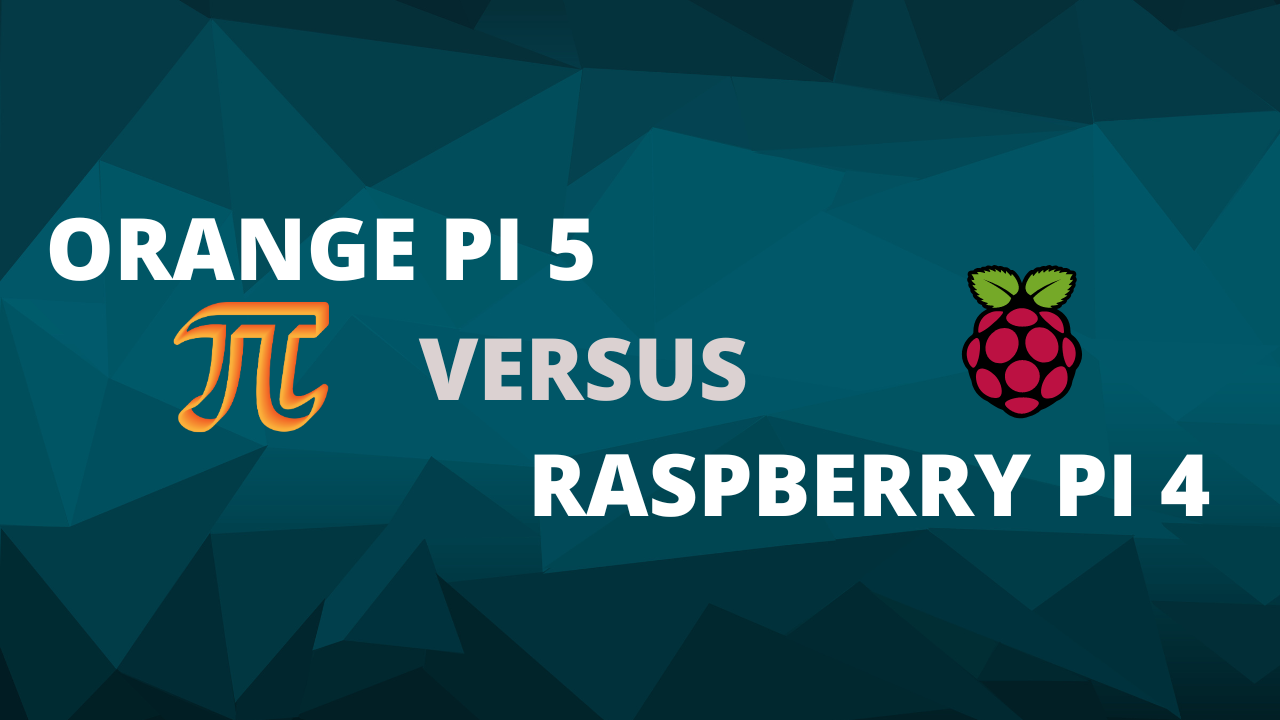
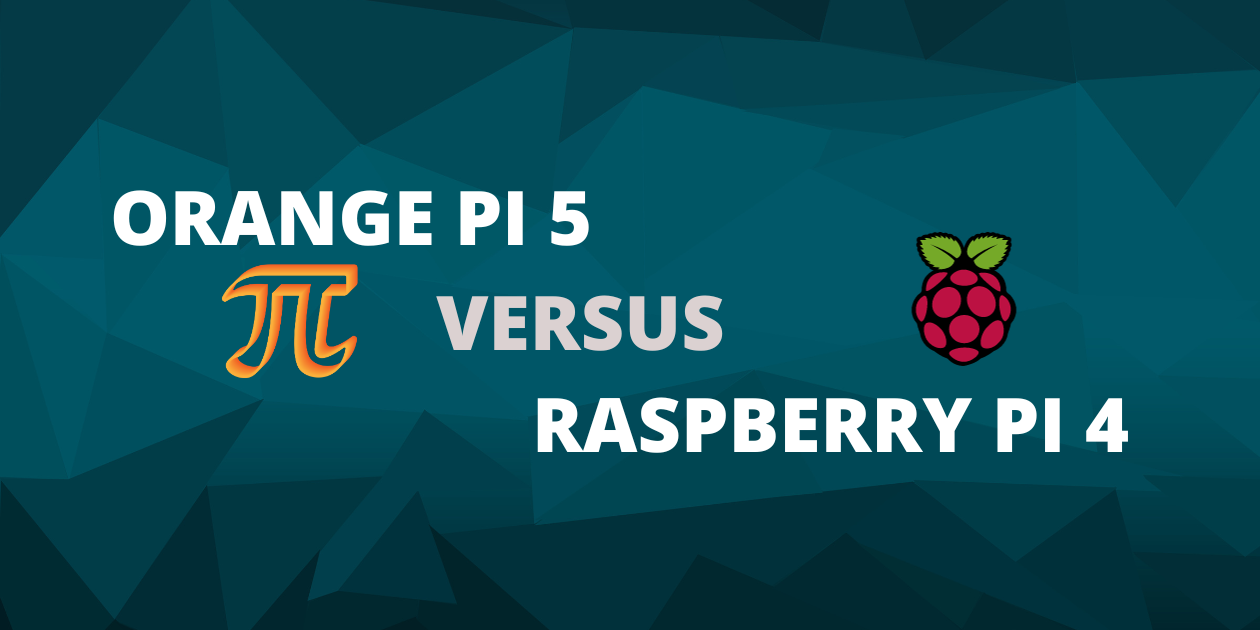
improving post size img

diff --git a/_posts/2021-08-05-rpi-setup-checks.md b/_posts/2021-08-05-rpi-setup-checks.md
@@ -14,7 +14,6 @@ A collection of some of the checks that I needed to do regarding Linux and Firmw
 ## Firmware version
 
 
-
 ### EEPROM
 
 This command is used to update the Raspberry Pi's bootloader and EEPROM (Electrically Erasable Programmable Read-Only Memory) firmware.
@@ -25,14 +24,21 @@ It's a more focused update for the bootloader and EEPROM and is less likely to i
 
 * Check firmware version with :
 
-```console
+```sh
 $sudo rpi-eeprom-update
 ```
   
 * Update it with:
 
-```console
+```sh
 $sudo rpi-eeprom-update
+```
+
+Recommended: 
+
+```sh
+#shutdown -r now
+reboot -r now
 ```
 
 ### Regular Firmware
@@ -45,15 +51,15 @@ While it can bring new features and improvements, it has a greater potential to 
 
 * Check current version:
 
-```console
-$vcgencmd version
+```sh
+vcgencmd version
 ```
 
 * or alternatively with:
 
 
-```console
-$hostnamectl
+```sh
+hostnamectl
 ```
 
 
@@ -61,9 +67,9 @@ $hostnamectl
 * Update it with:
 
 
-```console
-$sudo apt install rpi-update
-$sudo rpi-update
+```sh
+sudo apt install rpi-update
+sudo rpi-update
 ```
 
 
@@ -75,18 +81,33 @@ $sudo rpi-update
 The Linux kernel receives important updates regularly, you can check its version with:
 
 
-```console
-$uname --kernel-release
+```sh
+uname --kernel-release
 ```
 
 And to update it:
 
-```console
-$sudo apt update
+```sh
+sudo apt update
 #sudo apt full-upgrade
 ```
 
+## Checking Rpi's Architechture
 
+There are few alternatives:
+
+```sh
+dpkg --print-architecture
+```
+
+```sh
+cat /proc/cpuinfo 
+```
+
+
+```sh
+uname -a
+```
 
 ## Installed Packages
 
@@ -138,4 +159,27 @@ Use this command to be able to use the new alias already in the current session:
 ```sh
 $ source ~/.bashrc
 $ temp
+```
+
+
+
+### Checking Performance and Temp - HTOP
+
+
+A simple, yet useful CLI tool to check how well our RPi is doing:
+
+```sh
+apt install -y htop
+#htop --v
+
+htop
+```
+
+### Stress Test - STUI
+
+
+```sh
+sudo apt install python3-pip
+sudo pip install s-tui
+#s-tui
 ```

diff --git a/_tabs/about.md b/_tabs/about.md
@@ -4,21 +4,19 @@ icon: fas fa-info-circle
 order: 4
 ---
 
-Start your journey with Raspberry Pi and explore its role in IoT, embedded computing, and data analytics, all on one compact board.
+Start your journey with Raspberry Pi and explore its role in: IoT, embedded computing, and data analytics, all on one compact board.
 
 This is a collection of some of the awsome projects that anyone can do with a Raspberry Pi.
 
-My goal with this project is to inspire and guide the exploration of individuals eager to learn, facilitating their journey.
+My goal with this project is to inspire and guide the exploration of individuals eager to learn, facilitating their journey with IoT and Data Analytics.
 
 This Web is generated by the content posted publically on **[https://github.com/JAlcocerT/RPi](https://github.com/JAlcocerT/RPi)** by using [Jekyll](https://fossengineer.com//jekyll-ssg-selfhosting-static-website) with the [theme Chirpy](https://github.com/cotes2020/jekyll-theme-chirpy) and Github Actions.
 
 Please feel free to copy, modify, distribute and suggest any further improvements on the content.
 
-* In this web there are several mentions to other of my guides about:
-    * Docker: https://github.com/JAlcocerT/Docker
-    * Linux: https://jalcocert.github.io/Linux/
-    * Self-Hosting guides on my Tech-Blog: https://fossengineer.com/tags/self-hosting/
-
+* In this web there are several mentions to other of my public guides about:
+    * Linux: <https://jalcocert.github.io/Linux/>
+    * Docker: <https://github.com/JAlcocerT/Docker>
 
 
 > If you found any of the content useful and want to **support this project**, you can do it [here](https://www.buymeacoffee.com/fossengineer).

diff --git a/_posts/2021-07-21-getting-started.md b/_posts/2021-07-21-getting-started.md
@@ -41,7 +41,14 @@ $ apt upgrade
 > There are [other Single Board Computers](https://fossengineer.com/testing-performance-orange-pi5-versus-raspberry-pi4/) out there that you can use to do similar projects.
 {: .prompt-info }
 
+## Android in a Raspberry Pi?
 
+### Lineage OS
+
+* Visit: <https://konstakang.com/devices/rpi4/>
+* Download the latest version: <https://konstakang.com/devices/rpi4/LineageOS20/>
+* Create a bootable SD card with the image and boot it
+* Download the MindTheGapps file that matches your Lineage version and reboot into recovery mode, then load that file and Google Play Store will be ready to use.
 
 <!-- 
 ![img-description](https://pbs.twimg.com/media/FJAFshwXoAEf9HV?format=jpg&name=large)

diff --git a/_posts/2022-1-10-self-internet-monit.md b/_posts/2022-1-10-self-internet-monit.md
@@ -53,3 +53,25 @@ services:
 docker-compose up -d
 ```
 {: .prompt-info }
+
+## SpeedTest Tracker
+
+A self-hosted [internet performance tracking](https://github.com/alexjustesen/speedtest-tracker) application that runs speedtest checks against Ookla's Speedtest service.
+
+
+```yml
+version: '3.3'
+services:
+    speedtest-tracker:
+        container_name: speedtest-tracker
+        ports:
+            - '8080:80'
+            - '8443:443'
+        environment:
+            - PUID=1000
+            - PGID=1000
+        volumes:
+            - '/path/to/directory:/config'
+        image: 'ghcr.io/alexjustesen/speedtest-tracker:latest'
+        restart: unless-stopped
+```

diff --git a/_posts/2023-07-20-rpi-iot-dht11-influxdb.md b/_posts/2023-07-20-rpi-iot-dht11-influxdb.md
@@ -6,7 +6,7 @@ categories: [IoT & Data Analytics]
 tags: [Sensors,Python,InfluxDB]
 render_with_liquid: false
 image:
-  path: /img/RPi-HomeAssistant-DHT11.JPG
+  path: /img/RPi-HomeAssistant-DHT11.png #If you want to add an image at the top of the post, please provide an image with a resolution of 1200 x 630.
[1 lines of base64/hex data omitted]
   alt: IoT Project with Python, InfluxDB, Home Assistant and a DHT11.
 ---

diff --git a/_posts/2023-10-20-rpi-iot-dht1122-mongo.md b/_posts/2023-10-20-rpi-iot-dht1122-mongo.md
@@ -5,7 +5,7 @@ date: 2023-10-20 00:10:00 +0800
 categories: [IoT & Data Analytics]
 tags: [Sensors,Python,MongoDB]
 image:
-  path: /img/metabase.JPG
+  path: /img/metabase.png
   alt: IoT Project with Python, MongoDB, DHT11/22 sensors and Metabase.
 render_with_liquid: false
 ---
